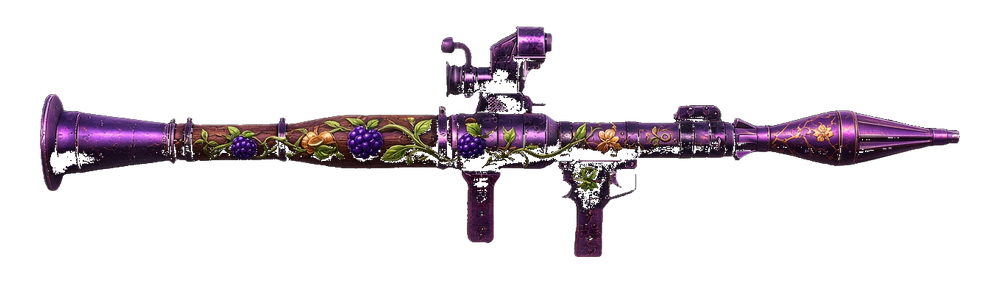
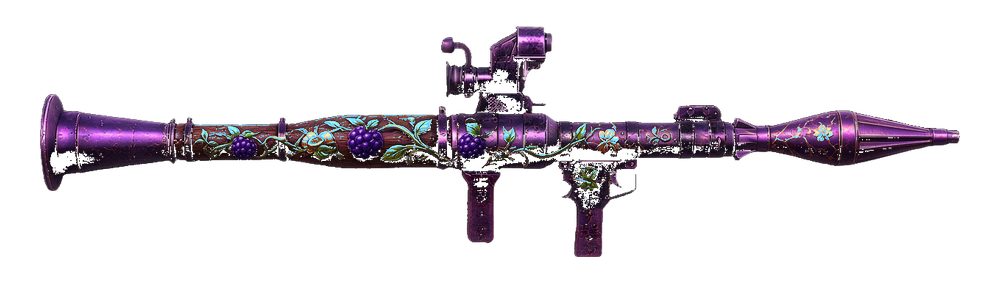
RPG orchard: cyan accents + teal Immortal bg so it no longer blends.

diff --git a/src/app/globals.css b/src/app/globals.css
@@ -25496,6 +25496,19 @@ body:has(.faction-page) .site-footer {
     inset 0 0 18px rgba(250, 204, 21, 0.22),
     0 0 14px rgba(250, 204, 21, 0.18);
 }
+.market-case-roule-cell.is-immortal.is-orchard-immortal {
+  border-color: rgba(52, 211, 153, 0.65);
+  background:
+    linear-gradient(
+      155deg,
+      rgba(6, 40, 48, 0.95) 0%,
+      rgba(4, 28, 36, 0.98) 55%,
+      rgba(2, 16, 22, 1) 100%
+    );
+  box-shadow:
+    inset 0 0 18px rgba(45, 212, 191, 0.2),
+    0 0 14px rgba(16, 185, 129, 0.22);
+}
 .market-case-roule-cell.is-win {
   border-color: #fde047;
   box-shadow: 0 0 0 2px rgba(250, 204, 21, 0.55), 0 0 24px rgba(250, 204, 21, 0.35);
@@ -25606,6 +25619,32 @@ body:has(.faction-page) .site-footer {
       rgba(200, 140, 40, 0.55) 100%
     );
 }
+.market-case-loot-cell.is-immortal.is-orchard-immortal {
+  border-color: rgba(45, 212, 191, 0.6);
+  background:
+    linear-gradient(
+      155deg,
+      rgba(6, 40, 48, 0.95) 0%,
+      rgba(4, 24, 32, 0.98) 100%
+    );
+  box-shadow:
+    inset 0 0 16px rgba(45, 212, 191, 0.18),
+    0 0 12px rgba(16, 185, 129, 0.2);
+}
+.market-case-loot-cell.is-immortal.is-orchard-immortal:hover,
+.market-case-loot-cell.is-immortal.is-orchard-immortal:focus-visible {
+  border-color: rgba(94, 234, 212, 0.85);
+  background:
+    linear-gradient(
+      155deg,
+      rgba(8, 55, 62, 0.98) 0%,
+      rgba(4, 30, 38, 1) 100%
+    );
+}
+.market-case-loot-cell.is-orchard-immortal .market-case-loot-rarity {
+  color: #5eead4;
+  text-shadow: 0 0 8px rgba(45, 212, 191, 0.45);
+}
 .market-case-loot-rarity {
   display: block;
   margin: 0 0 2px;
@@ -25684,6 +25723,25 @@ body:has(.faction-page) .site-footer {
       rgba(255, 214, 102, 0.35) 0%,
       rgba(120, 80, 20, 0.45) 100%
     );
+}
+.market-case-inspect-art.is-immortal.is-orchard-immortal {
+  border-color: rgba(45, 212, 191, 0.55);
+  background:
+    linear-gradient(
+      160deg,
+      rgba(4, 32, 40, 0.98) 0%,
+      rgba(2, 18, 24, 1) 100%
+    );
+  box-shadow: inset 0 0 28px rgba(45, 212, 191, 0.12);
+}
+.market-case-inspect-art.is-orchard-immortal img.is-patch {
+  filter:
+    drop-shadow(0 0 8px rgba(167, 139, 250, 0.55))
+    drop-shadow(0 0 16px rgba(45, 212, 191, 0.35));
+}
+.market-case-result.is-immortal.is-orchard-immortal {
+  border-color: rgba(45, 212, 191, 0.55);
+  background: rgba(4, 32, 40, 0.55);
 }
 .market-case-inspect-art img.is-patch {
   width: min(100%, 520px);

diff --git a/src/components/MarketCasesPanel.tsx b/src/components/MarketCasesPanel.tsx
@@ -24,6 +24,9 @@ const CASE_IMMORTAL_PATCH_IDS = new Set([
   "creator-rpg7-orchard-harvest",
 ]);
 
+/** РПГ: Immortal, но фон изумрудный — золотой сливается с узорами. */
+const CASE_ORCHARD_IMMORTAL_IDS = new Set(["creator-rpg7-orchard-harvest"]);
+
 /** Мелочь валюты (50/100/200 BBC · 500/1000/2000 $) — зелёный фон. */
 const CASE_FILLER_CASH_IDS = new Set([
   "cash-bbc-50",
@@ -40,6 +43,12 @@ function isImmortalLoot(e: Pick<LootEntry, "kind" | "itemId">): boolean {
   );
 }
 
+function isOrchardImmortalLoot(e: Pick<LootEntry, "kind" | "itemId">): boolean {
+  return Boolean(
+    e.kind === "patch" && e.itemId && CASE_ORCHARD_IMMORTAL_IDS.has(e.itemId)
+  );
+}
+
 function isFillerCashLoot(e: Pick<LootEntry, "kind" | "itemId">): boolean {
   return Boolean(
     e.kind === "currency" && e.itemId && CASE_FILLER_CASH_IDS.has(e.itemId)
@@ -49,6 +58,7 @@ function isFillerCashLoot(e: Pick<LootEntry, "kind" | "itemId">): boolean {
 function lootCellClass(e: Pick<LootEntry, "kind" | "itemId">): string {
   const extras = [
     isImmortalLoot(e) ? "is-immortal" : "",
+    isOrchardImmortalLoot(e) ? "is-orchard-immortal" : "",
     isFillerCashLoot(e) ? "is-filler-cash" : "",
   ]
     .filter(Boolean)
@@ -657,9 +667,7 @@ export function MarketCasesPanel({ onBalances, onRefreshCatalog }: Props) {
                   ×
                 </button>
                 <div
-                  className={`market-case-inspect-art kind-${inspect.kind}${
-                    isImmortalLoot(inspect) ? " is-immortal" : ""
-                  }`}
+                  className={`market-case-inspect-art ${lootCellClass(inspect)}`}
                 >
                   {inspect.image ? (
                     // eslint-disable-next-line @next/next/no-img-element

diff --git a/src/lib/profilePatches.ts b/src/lib/profilePatches.ts
@@ -185,6 +185,8 @@ export function profilePatchUrl(
       ? "?v=blood1"
       : id === "creator-event-scar-lemon" || id === "creator-event-saiga-apple"
         ? "?v=fs6"
+        : id === "creator-rpg7-orchard-harvest"
+          ? "?v=orch2"
         : id.startsWith("bd-faction-")
           ? "?v=bd9"
           : "";
